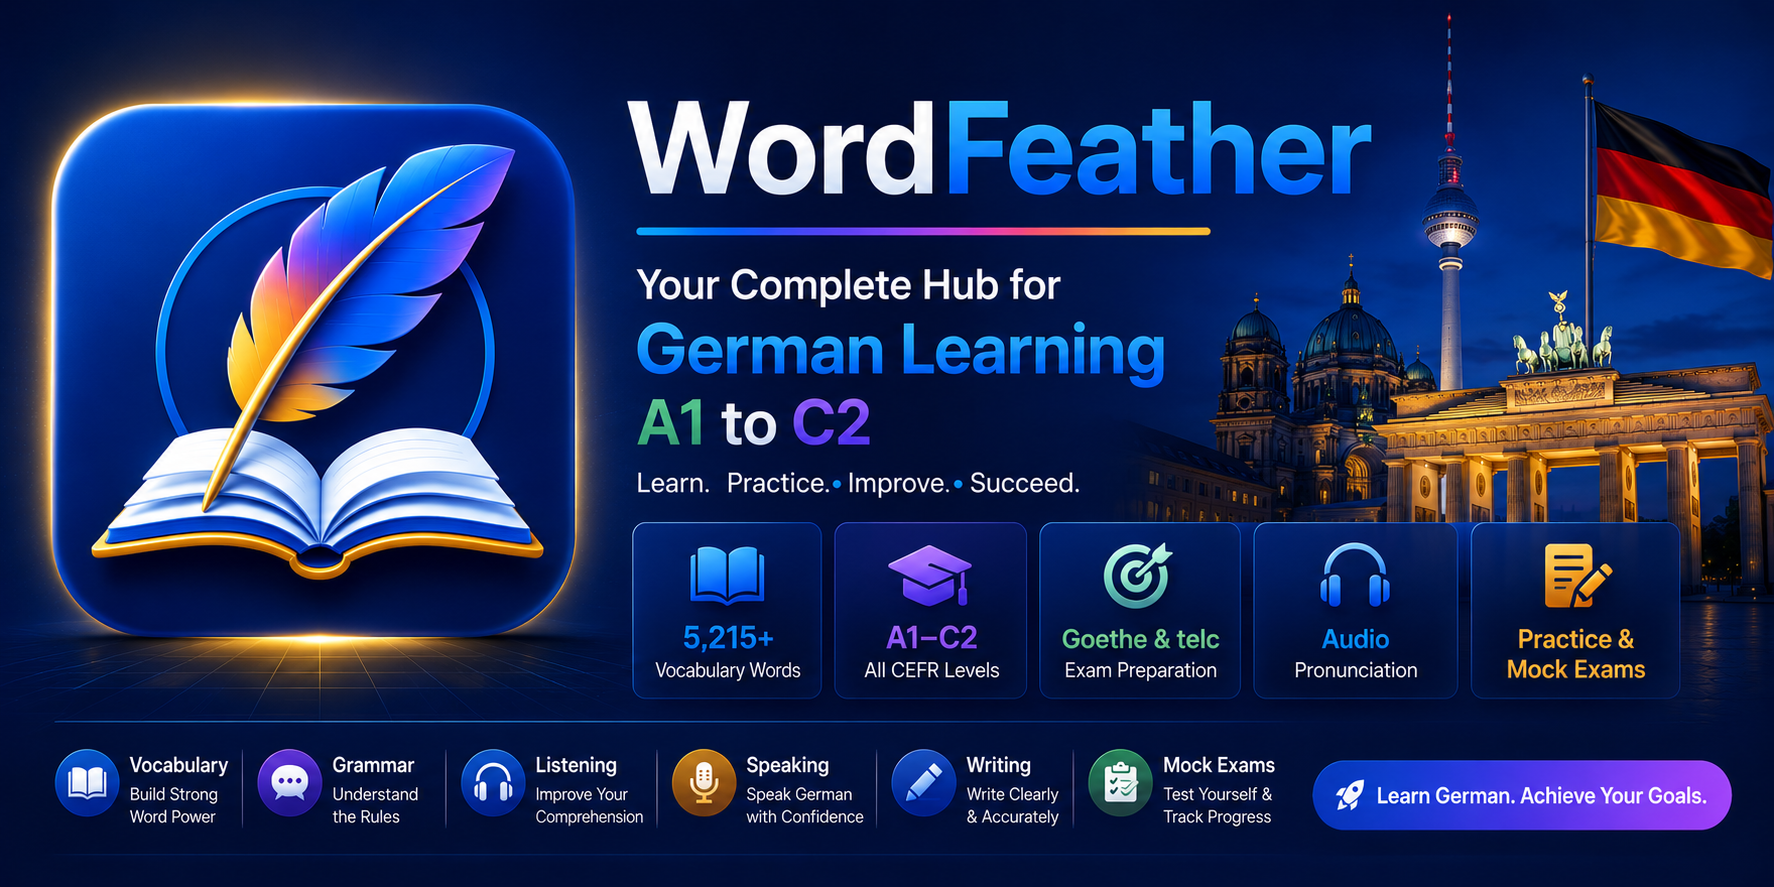
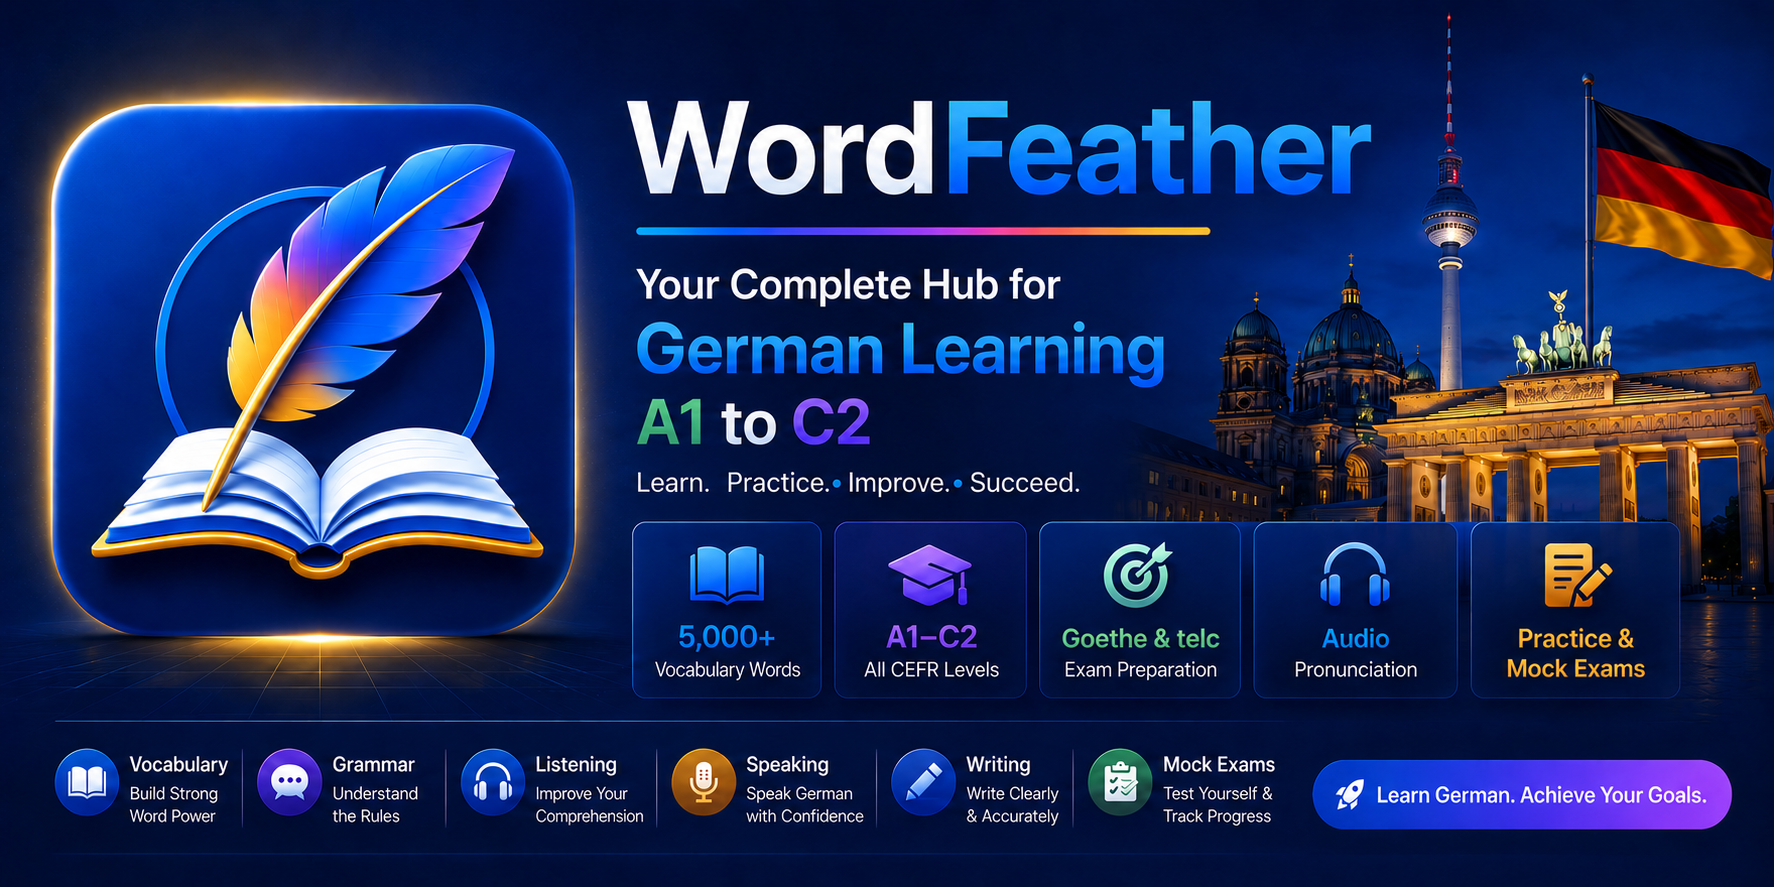
update og-image total words count

diff --git a/sw.js b/sw.js
@@ -1,7 +1,7 @@
 // WordFeather - Service Worker
 // CACHE_NAME below is auto-updated by build.py on every run — do not edit by hand.
 // AUTO-CACHE-VERSION-START
-const CACHE_NAME = 'deutsch-lernen-v20260904-064229';
+const CACHE_NAME = 'deutsch-lernen-v20260904-082430';
 // AUTO-CACHE-VERSION-END
 const BASE = '/';
 
